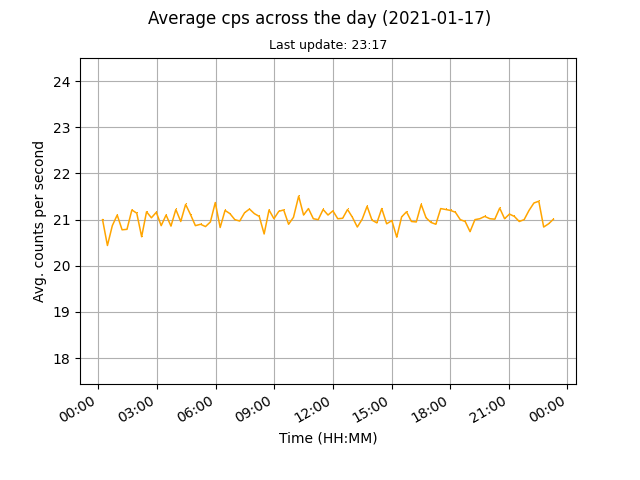
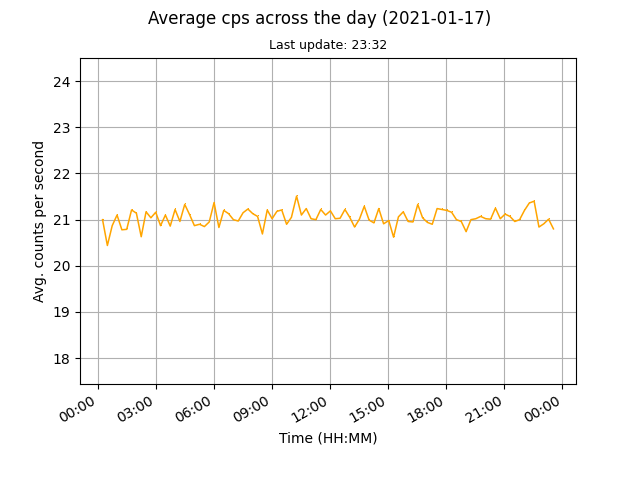
auto data update

diff --git a/docs/index.html b/docs/index.html
@@ -45,8 +45,8 @@
 	
 	<br>
 	
-	<p>Current counts per second (cps): 21.01</p>
-	<p>Last update: 2021-01-17, 23:17</p>
+	<p>Current counts per second (cps): 20.8</p>
+	<p>Last update: 2021-01-17, 23:32</p>
 
 	<p><a href="images/monthly.png"><img src="images/monthly.png" alt="Mothly avg cps data"></a><a href="images/daily.png"><img src="images/daily.png" alt="Daily avg cps data"></a></p>
 	
